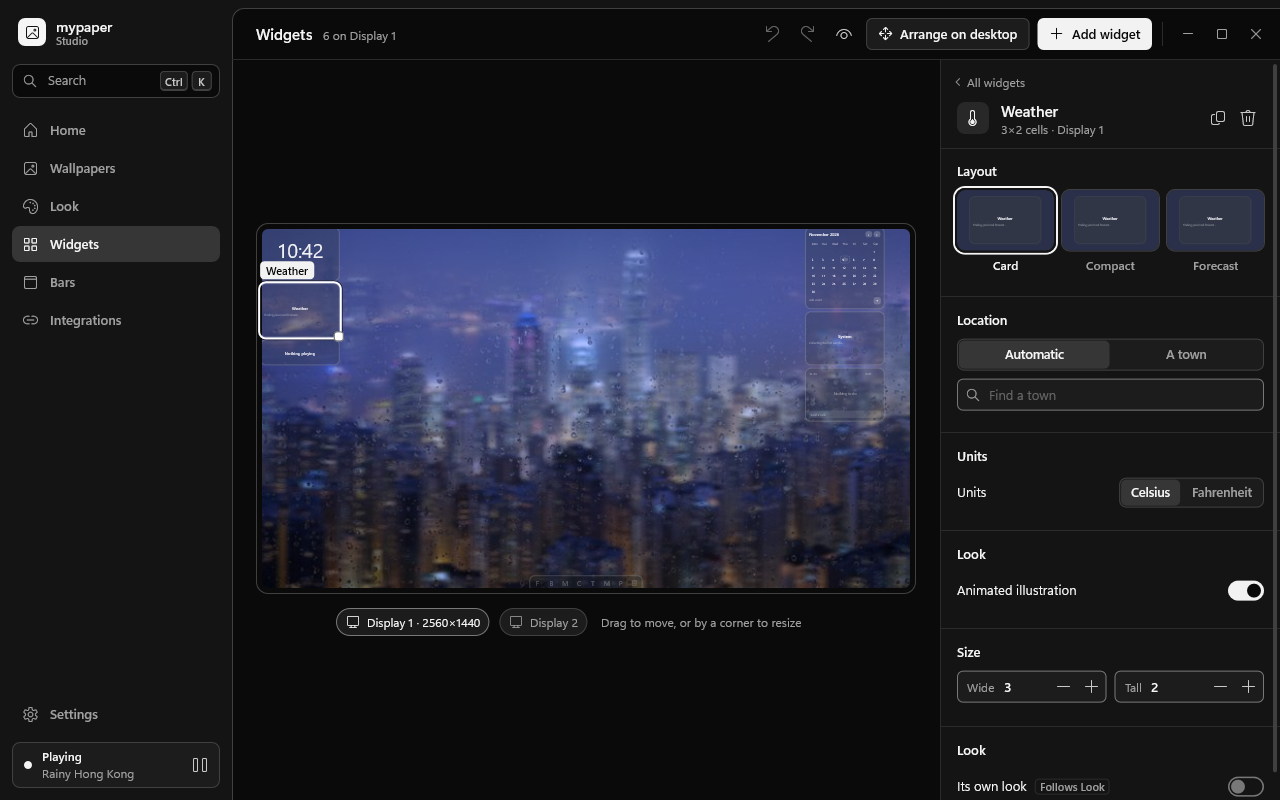
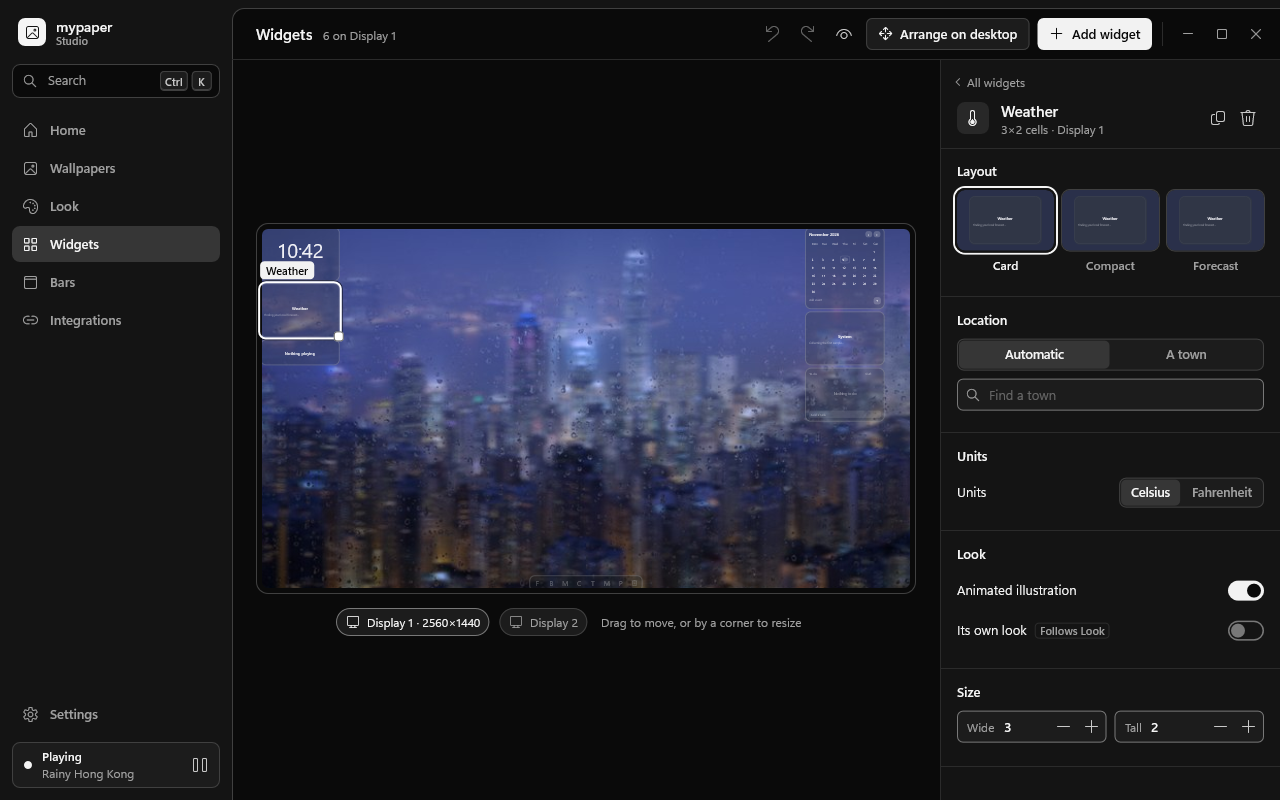
studio: one Look section per widget, hex fields without a missing glyph, status hits for save state and toasts

Changed region(s): [[0.75, 0.75, 1.0, 0.9375], [0.75, 0.9688, 0.875, 1.0], [0.9375, 0.9688, 1.0, 1.0]]

diff --git a/crates/studio/src/pages/widgets.rs b/crates/studio/src/pages/widgets.rs
@@ -184,12 +184,19 @@ fn widget_inspector(app: &App, b: &mut B, col: &mut Col, layout: &Layout, instan
             groups.push(g);
         }
     }
-    for group in groups {
-        section(b, col, &group, |b, c| {
+    for group in &groups {
+        section(b, col, group, |b, c| {
             for s in manifest.settings.iter().filter(|s| group_of(s).unwrap_or("Options") == group) {
                 widget_setting(app, b, c, &base, &resolved, s, instance, manifest);
             }
+            // One Look section: the widget's own look joins its manifest's.
+            if group == "Look" {
+                own_look(app, b, c, &base, instance);
+            }
         });
+    }
+    if !groups.iter().any(|g| g == "Look") {
+        section(b, col, "Look", |b, c| own_look(app, b, c, &base, instance));
     }
     section(b, col, "Size", |b, c| {
         let half = (c.w - b.px(8.0)) / 2.0;
@@ -197,33 +204,35 @@ fn widget_inspector(app: &App, b: &mut B, col: &mut Col, layout: &Layout, instan
         stepper(b, Rect::new(c.x + half + b.px(8.0), c.y, half, b.px(32.0)), "Tall", instance.size[1], Action::ResizeWidget(0, -1), Action::ResizeWidget(0, 1));
         c.y += b.px(40.0);
     });
-    section(b, col, "Look", |b, c| {
-        let own = !instance.appearance.eq(&Default::default());
-        let row = Rect::new(c.x, c.y, c.w, b.px(36.0));
-        label(b, row, "Its own look", "", if own { None } else { Some("Follows Look") });
-        let edit = Edit::new(DocId::Widgets, format!("{base}/appearance/surface"), "Its own look");
-        let action = if own {
-            Action::Set(Edit::new(DocId::Widgets, format!("{base}/appearance"), "Follows Look"), Value::Null)
-        } else {
-            Action::Set(edit, json!("glass"))
-        };
-        b.switch(key("own-look"), Point::new(c.x + c.w - b.px(36.0), c.y + b.px(8.0)), own, "Its own look", action);
+}
+
+/// "Its own look": a widget's appearance over Look's, with its background and tint.
+fn own_look(app: &App, b: &mut B, c: &mut Col, base: &str, instance: &Instance) {
+    let own = !instance.appearance.eq(&Default::default());
+    let row = Rect::new(c.x, c.y, c.w, b.px(36.0));
+    label(b, row, "Its own look", "", if own { None } else { Some("Follows Look") });
+    let edit = Edit::new(DocId::Widgets, format!("{base}/appearance/surface"), "Its own look");
+    let action = if own {
+        Action::Set(Edit::new(DocId::Widgets, format!("{base}/appearance"), "Follows Look"), Value::Null)
+    } else {
+        Action::Set(edit, json!("glass"))
+    };
+    b.switch(key("own-look"), Point::new(c.x + c.w - b.px(36.0), c.y + b.px(8.0)), own, "Its own look", action);
+    c.y += b.px(40.0);
+    if own {
+        let surface = instance.appearance.surface.map_or("glass", |s| match s {
+            mypaper_theme::Surface::None => "none",
+            mypaper_theme::Surface::Glass => "glass",
+            mypaper_theme::Surface::Solid => "solid",
+        });
+        let values = ["glass", "solid", "none"];
+        let e = Edit::new(DocId::Widgets, format!("{base}/appearance/surface"), "Background");
+        b.segmented(key("own-surface"), Rect::new(c.x, c.y, c.w, b.px(32.0)), &["Glass", "Solid", "None"], values.iter().position(|v| *v == surface), "Background", true, |i| Action::Set(e.clone(), json!(values[i])));
         c.y += b.px(40.0);
-        if own {
-            let surface = instance.appearance.surface.map_or("glass", |s| match s {
-                mypaper_theme::Surface::None => "none",
-                mypaper_theme::Surface::Glass => "glass",
-                mypaper_theme::Surface::Solid => "solid",
-            });
-            let values = ["glass", "solid", "none"];
-            let e = Edit::new(DocId::Widgets, format!("{base}/appearance/surface"), "Background");
-            b.segmented(key("own-surface"), Rect::new(c.x, c.y, c.w, b.px(32.0)), &["Glass", "Solid", "None"], values.iter().position(|v| *v == surface), "Background", true, |i| Action::Set(e.clone(), json!(values[i])));
-            c.y += b.px(40.0);
-            let tint = Edit::new(DocId::Widgets, format!("{base}/appearance/tint"), "Tint");
-            let current = app.get(DocId::Widgets, &format!("{base}/appearance/tint")).cloned();
-            swatches(app, b, c, &tint, current.as_ref(), None, &[[0x34, 0x3a, 0x42], [0x8b, 0x9e, 0xb7], [0xc8, 0x8d, 0x3c], [0x7f, 0xae, 0x8e], [0xe6, 0xe6, 0xe6]]);
-        }
-    });
+        let tint = Edit::new(DocId::Widgets, format!("{base}/appearance/tint"), "Tint");
+        let current = app.get(DocId::Widgets, &format!("{base}/appearance/tint")).cloned();
+        swatches(app, b, c, &tint, current.as_ref(), None, &[[0x34, 0x3a, 0x42], [0x8b, 0x9e, 0xb7], [0xc8, 0x8d, 0x3c], [0x7f, 0xae, 0x8e], [0xe6, 0xe6, 0xe6]]);
+    }
 }
 
 fn group_of(s: &WidgetSetting) -> Option<&str> {

diff --git a/crates/studio/src/view.rs b/crates/studio/src/view.rs
@@ -275,15 +275,8 @@ pub fn edit_tools(app: &App, b: &mut B, bar: Rect, mut right: f32) -> f32 {
         right -= w + b.px(28.0);
         b.icon(Rect::new(right, bar.top, b.px(14.0), bar.height()), g, 11.0, p.ink3);
         b.text_in(Rect::new(right + b.px(18.0), bar.top, w + b.px(2.0), bar.height()), label, &caption, p.ink3, Align::Start);
-        b.list.hits.push(mypaper_ui::Hit {
-            id: 0,
-            rect: Rect::new(right, bar.top, w + b.px(20.0), bar.height()),
-            role: Role::Status,
-            label: label.into(),
-            enabled: true,
-            checked: None,
-        });
-        b.list.hits.pop();
+        // Announced as a status; not a stop for Tab (it does nothing).
+        b.hit(key("save-state"), Rect::new(right, bar.top, w + b.px(20.0), bar.height()), Role::Status, label, Action::None, mypaper_ui::controls::Behavior::Click);
     }
     right - b.px(6.0)
 }
@@ -329,6 +322,9 @@ fn toast(app: &App, b: &mut B) {
     let r = regions(app);
     let rect = Rect::new(r.main.left + (r.main.width() - w) / 2.0, app.size.1 as f32 - h - b.px(24.0), w, h);
     b.elevated(rect, b.px(10.0));
+    // The toast as a status for screen readers; it also keeps clicks off the page beneath.
+    // Its buttons come after, so they win the pointer where they are.
+    b.hit(key("toast"), rect, Role::Status, &t.text, Action::None, mypaper_ui::controls::Behavior::Click);
     b.icon(Rect::new(rect.left + b.px(12.0), rect.top, b.px(16.0), h), if t.alert { glyph::ALERT } else { glyph::CHECK }, 12.0, p.ink1);
     b.text_in(Rect::new(rect.left + b.px(36.0), rect.top, tw + b.px(2.0), h), &t.text, &body, p.ink1, Align::Start);
     let mut x = rect.right - b.px(36.0);
@@ -338,15 +334,6 @@ fn toast(app: &App, b: &mut B) {
         x -= bw + b.px(4.0);
         b.button(key("toast-action"), Rect::new(x, rect.top + b.px(7.0), bw, b.px(28.0)), label, None, ButtonKind::Secondary, true, Action::ToastButton);
     }
-    b.list.hits.push(mypaper_ui::Hit {
-        id: 0,
-        rect: Rect::new(rect.left, rect.top, 0.0, 0.0),
-        role: Role::Status,
-        label: t.text.as_str().into(),
-        enabled: true,
-        checked: None,
-    });
-    b.list.hits.pop();
 }
 
 /// A sheet over the page: scrim, the centered panel with its title and close button. Returns

diff --git a/crates/studio/src/app.rs b/crates/studio/src/app.rs
@@ -992,7 +992,9 @@ impl App {
                 }
             }
             FieldId::Hex(path) => {
-                if let Some(color) = mypaper_config::Color::parse(text.trim()) {
+                // "#ff8800" or "ff8800".
+                let hex = format!("#{}", text.trim().trim_start_matches('#'));
+                if let Some(color) = mypaper_config::Color::parse(&hex) {
                     self.apply("Colour", vec![Op {
                         doc: DocId::Config,
                         path: path.to_string(),

diff --git a/crates/studio/src/ui.rs b/crates/studio/src/ui.rs
@@ -461,7 +461,8 @@ pub fn swatches(
     let rect = Rect::new(col.right() - fw, y - b.px(4.0), fw, b.px(32.0));
     let id = FieldId::Hex(edit.path.clone());
     let shown = if custom { current_hex } else { "" };
-    text_field(app, b, rect, id, Some('#'), "Custom", shown.trim_start_matches('#'), &format!("{} hex", edit.label));
+    // No glyph: the icon font has no '#', so the value carries it.
+    text_field(app, b, rect, id, None, "Custom", shown, &format!("{} hex", edit.label));
     col.y += b.px(34.0);
 }
 
